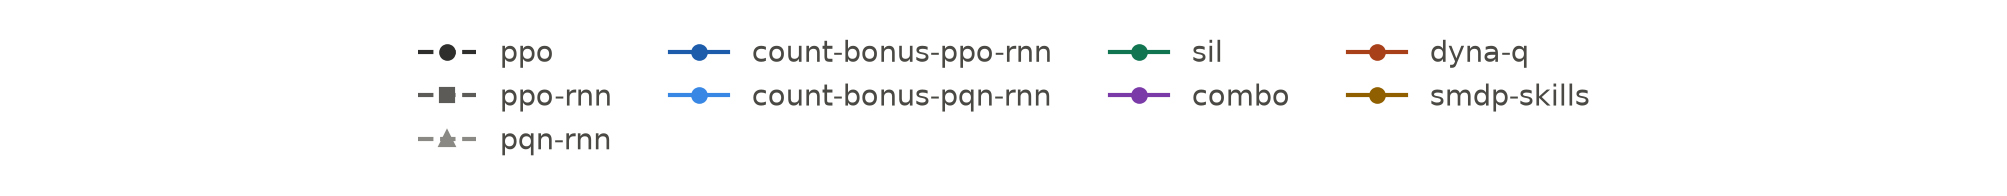
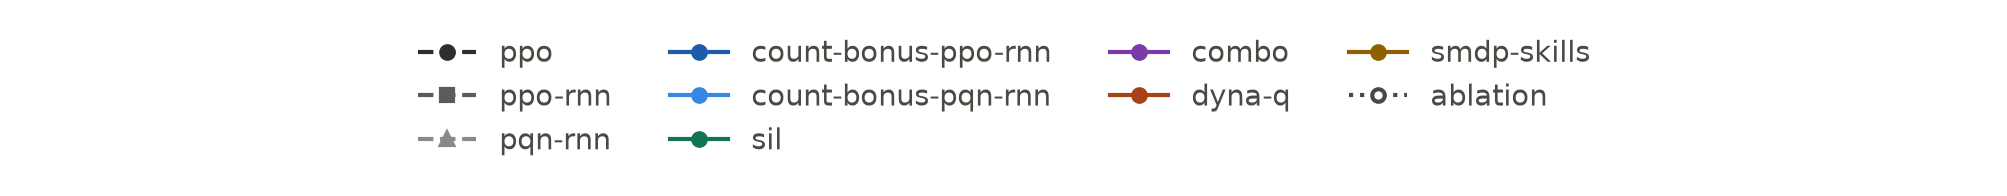
docs: rewrite the checkpoint with results, compute cost and a plan

diff --git a/report/checkpoint.tex b/report/checkpoint.tex
@@ -5,11 +5,11 @@
 \usepackage{hyperref}
 \usepackage{enumitem}
 \setlist{nosep,leftmargin=*}
-\setlist[description]{labelindent=0pt,leftmargin=1.2em,itemsep=2pt}
+\setlist[description]{labelindent=0pt,leftmargin=1.2em,itemsep=3pt}
 \input{numbers}
 
-\title{Checkpoint: reinforcement learning on Craftax}
-\author{Pawe{\l} Pozorski\\{\small\href{mailto:pawel.pozorski.stud@pw.edu.pl}{pawel.pozorski.stud@pw.edu.pl}}}
+\title{Checkpoint: can an RL agent get further in Craftax?}
+\author{Pawe{\l} Pozorski, Pawe{\l} Florek, Jan Cwalina\\{\small\texttt{\{pawel.pozorski, pawel.florek, jan.cwalina\}.stud@pw.edu.pl}}}
 \date{}
 
 \begin{document}
@@ -20,43 +20,78 @@
 \section*{1. Problem, objective and repository}
 
 \begin{description}
-\item[Problem.] Craftax is a survival game in which an agent gathers resources, crafts tools and descends through nine floors. It has 67 achievements worth at most 226 points, which makes it a hard test of exploration and long-term planning. Agents are compared at one million (1M) and one billion (1B) steps.
-\item[Objective.] Do ideas that help exploration and learning from experience also help on Craftax? We compare three standard agents (PPO, PPO with memory, PQN with memory) with four additions: a bonus for reaching new stages of the game, self-imitation, Q-learning over hand-written skills, and Dyna-Q over those skills. We also ask whether the ranking at 1M still holds at 1B.
-\item[Repository.] \url{https://github.com/Pawlo77/rl-craftmax} (public); the README explains how to install and run it.
+\item[Problem.] Craftax is a Minecraft-like survival game written in JAX, fast enough to train an agent for a billion steps. The agent sees a 9\,$\times$\,11 window of the map around it (in our setting as a vector of 8\,268 numbers), picks one of 43 actions, and has to keep its health, food, water and energy up while it collects wood and stone, crafts tools, fights monsters and enchants gear. The world has nine floors, each 48\,$\times$\,48 tiles: the overworld, a dungeon, the gnomish mines, the sewers, the vaults, the troll mines, a fire realm, an ice realm and finally a graveyard with the boss. To go down a floor the agent has to find the ladder and kill enough monsters to open it. An episode ends when the agent dies or after 100\,000 steps.
+\item[Reward.] There are 67 achievements in four tiers (25 worth 1 point, 18 worth 3, 15 worth 5, 9 worth 8), 226 points in total, each paid once per episode. Almost nobody gets far: published agents score a few percent after a million steps and about 15\,\% after a billion. In our runs none of the evaluation episodes at 1M gets below the dungeon, so the game is mostly a test of exploration.
+\item[Objective.] We wanted to see whether the usual tricks for exploration and for learning from past experience help here, or whether a plain agent with some memory is already as good as it gets. We start from three standard agents (PPO, PPO with a recurrent layer, PQN with a recurrent layer) and plan to bolt four ideas onto them: a bonus for reaching new stages of the game, self-imitation, Q-learning over hand-written skills, and Dyna-Q on top of those skills. Everything is run at one million (1M) and one billion (1B) steps, so we can also ask whether what works at 1M still works at 1B.
+\item[Repository.] \url{https://github.com/Pawlo77/rl-craftmax}, public. The README says how to install it and how to repeat a run.
 \end{description}
+
+\begin{center}
+\includegraphics[height=4.3cm]{figures/checkpoint/checkpoint_game1.png}\hspace{1.2em}\includegraphics[height=4.3cm]{figures/checkpoint/checkpoint_game2.png}\\[2pt]
+{\footnotesize Two frames of the overworld, the first floor (our own renders). Left: the start of an episode. Right: a zombie\\ next to the player; the bars under the map are health, food, water, energy and mana.}
+\end{center}
 
 \section*{2. Minimal experiment}
 
 \begin{description}
-\item[Environment and agent.] Craftax-Symbolic, which gives the agent a compact vector description of the world, and a PPO agent as the baseline.
-\item[What we ran.] PPO for one million steps on 10 seeds, with every metric logged to MLflow; one command in the README repeats it.
-\item[Performance.] The score is the mean return over the last 2\,\% of training, as a share of the 226 points. PPO reaches \scoreOneMPpo\,\% $\pm$ \scoreSeOneMPpo\ (mean $\pm$ standard error). The published value is 2.2\,\%, so the baseline is reproduced.
+\item[Setup.] We use Craftax-Symbolic, where the observation is a vector instead of pixels, and start with plain PPO because every other agent is a change to it. Ten seeds, 1M steps, every metric logged to MLflow. After \texttt{make install}, \texttt{make queue PHASE=final-1m METHOD=ppo} repeats the ten runs (\texttt{make train-ppo} gives a single quick one) and \texttt{make mlflow} opens the logged curves.
+\item[Score.] We take the mean return over the last 2\,\% of training and divide by 226, so a score is a percentage of the maximum. PPO ends at \scoreOneMPpo\,\% $\pm$ \scoreSeOneMPpo\ (mean $\pm$ standard error) and the published number is 2.2\,\%, so the baseline matches the paper and we did not have to hunt for a bug before going further.
+\item[The other two baselines.] PPO-RNN and PQN-RNN went through the same protocol, then the same agents at 1B steps. The table has all three, next to the numbers from the paper where one exists.
 \end{description}
+
+\begin{center}
+\begin{tabular}{lrrrr}
+\toprule
+ & \multicolumn{2}{c}{1M steps, 10 seeds} & \multicolumn{2}{c}{1B steps, 3 seeds} \\
+\cmidrule(lr){2-3}\cmidrule(lr){4-5}
+Score (\% of max) & ours & paper & ours & paper \\
+\midrule
+PPO     & \scoreOneMPpo\ $\pm$ \scoreSeOneMPpo       & 2.2 & \scoreOneBPpo\ $\pm$ \scoreSeOneBPpo       & 11.9 \\
+PPO-RNN & \scoreOneMPpoRnn\ $\pm$ \scoreSeOneMPpoRnn & 2.3 & \scoreOneBPpoRnn\ $\pm$ \scoreSeOneBPpoRnn & 15.3 \\
+PQN-RNN & \scoreOneMPqnRnn\ $\pm$ \scoreSeOneMPqnRnn & --  & \scoreOneBPqnRnn\ $\pm$ \scoreSeOneBPqnRnn & 16.0 \\
+\bottomrule
+\end{tabular}\\[2pt]
+{\footnotesize Mean $\pm$ standard error over seeds. The paper has no PQN-RNN number at 1M.}
+\end{center}
+
+\begin{description}
+\item[Compute.] The two budgets differ by a factor of 1\,000, and it shows. The 1M runs ran on one of our laptops, an Apple M4 Pro (rollouts on the CPU cores, network updates on its Metal GPU), and a run takes a few minutes. All 1B runs ran on the faculty's EDEN cluster, one GPU, two CPU cores and 12 to 16\,GB of RAM per run, and a run takes hours: PPO and PPO-RNN on an NVIDIA A100-SXM4-40GB (DGX nodes), PQN-RNN on an NVIDIA H100 PCIe (the hopper node). The two GPU types differ in speed, so the 1B times of different methods are not strictly comparable. The laptop speeds are measured with two runs sharing the machine, so they are on the low side. For comparison, a single 1B run of PPO-RNN on the laptop would take about four days.
+\end{description}
+
+\begin{center}
+\begin{tabular}{lrrrrrr}
+\toprule
+ & \multicolumn{2}{c}{1M, laptop (per run)} & \multicolumn{4}{c}{1B, cluster GPU (per run)} \\
+\cmidrule(lr){2-3}\cmidrule(lr){4-7}
+ & steps/s & time & steps/s & time & GPU (memory) & all 3 seeds \\
+\midrule
+PPO     & 4\,300 & 3.8 min & 75\,000 & 3.7 h & A100 (33 GB) & 11 h \\
+PPO-RNN & 3\,100 & 5.7 min & 58\,000 & 4.9 h & A100 (33 GB) & 15 h \\
+PQN-RNN & 2\,500 & 7.0 min & 80\,000 & 3.5 h & H100 (65 GB) & 10 h \\
+\bottomrule
+\end{tabular}\\[2pt]
+{\footnotesize Laptop: Apple M4 Pro; A100 = A100-SXM4-40GB, H100 = H100 PCIe, both on EDEN. Time is wall clock including compilation. The three baselines alone cost 36 GPU-hours at 1B (9 runs)\\ and under 3 hours of laptop time at 1M (30 runs).}
+\end{center}
 
 \section*{3. Initial result and its limitations}
 
 \begin{center}
-\begin{tabular}{lrrr}
-\toprule
-Score at 1M (\%, 10 seeds) & PPO & PPO-RNN & PQN-RNN \\
-\midrule
-Mean $\pm$ s.e. & \scoreOneMPpo\ $\pm$ \scoreSeOneMPpo & \scoreOneMPpoRnn\ $\pm$ \scoreSeOneMPpoRnn & \scoreOneMPqnRnn\ $\pm$ \scoreSeOneMPqnRnn \\
-\bottomrule
-\end{tabular}
+\includegraphics[width=\textwidth]{figures/checkpoint/checkpoint_curves.png}\\[-2pt]
+{\footnotesize Training score of the three baselines (mean over seeds, band = 95\,\% bootstrap interval).}
 \end{center}
 
 \begin{description}
-\item[Result.] The three baselines are reproduced at 1M, and PPO and PPO-RNN end almost level. Adding the progress bonus to PPO-RNN scores highest (\scoreOneMCountBonusPpoRnn\,\%), but not significantly higher (probability of improvement \poiOneMCountBonusPpoRnnPpoRnn, Holm $p=\pHolmOneMCountBonusPpoRnnPpoRnn$). The skill methods score lowest. First runs at 1B, with three seeds, point the same way: PQN-RNN catches up with PPO-RNN.
-\item[Limitations.] The 1B results rest on three seeds, so we report intervals and no tests. The 1B settings were not tuned separately. The two budgets ran on different hardware and software, and a check on the cluster showed no difference beyond seed noise.
+\item[Result.] All three baselines land within the margin of the published numbers, with one exception we come back to below. Two things surprised us. At 1M memory hardly matters: PPO and PPO-RNN end level, while PQN-RNN first gets worse for about 200k steps before it starts to climb, and ends last. At 1B the picture flips. PPO falls far behind at \scoreOneBPpo\,\%, and PQN-RNN catches up with PPO-RNN (\scoreOneBPqnRnn\ against \scoreOneBPpoRnn\,\%). So the ranking at 1M says little about the ranking at 1B, which is the reason we run both budgets.
+\item[Limitations.] At 1B we can only afford three seeds, so we report intervals and no tests, and the 1B numbers are indicative. Our PPO-RNN at 1B is a bit above the published 15.3, by more than the seed noise; we looked for a bug, found none, and note it as a difference. The 1B settings were not tuned, we reused the 1M ones. The two budgets also ran on different machines (our laptops, then the faculty GPU cluster); a rerun on the cluster gave scores within seed noise, but it is one more thing to keep in mind.
 \end{description}
 
 \section*{4. Plan and division of work}
 
 \begin{description}
-\item[Next experiments.] Finish the ablations at 1B (Dyna-Q without its exploration bonus and three variants of the skill method), then compare the ranking at both budgets.
-\item[Deliverables.] A 3-page report, a short and a long video, and a public release of the results and an interactive demo on Hugging Face.
-\item[Possible extensions.] Tune the methods at 1B, run more seeds, learn the progress summary instead of choosing it by hand, and add the intrinsic-reward baselines RND and E3B.
-\item[Division of work.] One author, Pawe{\l} Pozorski, covers experiments, analysis, report and videos.
+\item[Next experiments.] The four additions are what is left. Each one is added to the baselines it fits, run for 1M steps on 10 seeds (a few hours of laptop time) and then for 1B steps on 3 seeds (roughly 10 to 15 GPU-hours per method, like the baselines), and compared with its own unmodified control under the same protocol. The part we are most curious about is the skills, since the skill list is written by hand and may simply be a bad guess. If time allows we also combine the two additions that work best, and run the 1B ablations (Dyna-Q without its exploration bonus, variants of the skill list).
+\item[Deliverables.] A 3-page report, a short and a long video, and a public release of the code, results and a small demo.
+\item[Possible extensions.] Tuning at 1B, more seeds, learning the progress summary instead of choosing it by hand, and the intrinsic-reward baselines RND and E3B.
+\item[Division of work.] Pawe{\l} Pozorski built the baselines, the experiment pipeline and the analysis, and keeps running the 1B jobs on the cluster. Pawe{\l} Florek takes the progress bonus and self-imitation, Jan Cwalina the hand-written skills with Q-learning and Dyna-Q; each of us runs, tunes and describes our own methods. The report sections and the videos follow the same split, and Pawe{\l} Pozorski merges and checks the numbers.
 \end{description}
 
 \end{document}

diff --git a/report/numbers.tex b/report/numbers.tex
@@ -1261,11 +1261,16 @@
 \newcommand{\medianOneBCountBonusPpoRnn}{16.55}
 \newcommand{\medianOneBCountBonusPqnRnn}{15.99}
 \newcommand{\medianOneBDynaQ}{8.53}
+\newcommand{\medianOneBDynaQKappaZero}{7.65}
 \newcommand{\medianOneBPpo}{11.70}
 \newcommand{\medianOneBPpoRnn}{16.41}
 \newcommand{\medianOneBPqnRnn}{16.04}
 \newcommand{\medianOneBSil}{15.08}
+\newcommand{\medianOneBSilSingleBuffer}{16.30}
 \newcommand{\medianOneBSmdpSkills}{7.63}
+\newcommand{\medianOneBSmdpSkillsMonteCarlo}{10.68}
+\newcommand{\medianOneBSmdpSkillsNoFlags}{6.41}
+\newcommand{\medianOneBSmdpSkillsRandomTop}{4.75}
 \newcommand{\pHolmOneMComboPpo}{1.000}
 \newcommand{\pHolmOneMComboPpoRnn}{1.000}
 \newcommand{\pHolmOneMComboPqnRnn}{0.002}
@@ -1402,11 +1407,16 @@
 \newcommand{\scoreOneBCountBonusPpoRnn}{16.33}
 \newcommand{\scoreOneBCountBonusPqnRnn}{15.99}
 \newcommand{\scoreOneBDynaQ}{8.76}
+\newcommand{\scoreOneBDynaQKappaZero}{8.23}
 \newcommand{\scoreOneBPpo}{11.72}
 \newcommand{\scoreOneBPpoRnn}{16.22}
 \newcommand{\scoreOneBPqnRnn}{16.10}
 \newcommand{\scoreOneBSil}{15.13}
+\newcommand{\scoreOneBSilSingleBuffer}{16.24}
 \newcommand{\scoreOneBSmdpSkills}{7.98}
+\newcommand{\scoreOneBSmdpSkillsMonteCarlo}{10.45}
+\newcommand{\scoreOneBSmdpSkillsNoFlags}{6.42}
+\newcommand{\scoreOneBSmdpSkillsRandomTop}{4.47}
 \newcommand{\scoreOneMCombo}{2.13}
 \newcommand{\scoreOneMCountBonusPpoRnn}{2.27}
 \newcommand{\scoreOneMCountBonusPpoRnnSimHash}{1.78}
@@ -1426,11 +1436,16 @@
 \newcommand{\scoreSeOneBCountBonusPpoRnn}{0.35}
 \newcommand{\scoreSeOneBCountBonusPqnRnn}{0.01}
 \newcommand{\scoreSeOneBDynaQ}{0.67}
+\newcommand{\scoreSeOneBDynaQKappaZero}{0.69}
 \newcommand{\scoreSeOneBPpo}{0.05}
 \newcommand{\scoreSeOneBPpoRnn}{0.27}
 \newcommand{\scoreSeOneBPqnRnn}{0.09}
 \newcommand{\scoreSeOneBSil}{0.06}
+\newcommand{\scoreSeOneBSilSingleBuffer}{0.07}
 \newcommand{\scoreSeOneBSmdpSkills}{0.37}
+\newcommand{\scoreSeOneBSmdpSkillsMonteCarlo}{0.95}
+\newcommand{\scoreSeOneBSmdpSkillsNoFlags}{0.24}
+\newcommand{\scoreSeOneBSmdpSkillsRandomTop}{0.42}
 \newcommand{\scoreSeOneMCombo}{0.03}
 \newcommand{\scoreSeOneMCountBonusPpoRnn}{0.04}
 \newcommand{\scoreSeOneMCountBonusPpoRnnSimHash}{0.04}

diff --git a/src/wut_murl_craftax/analysis/results.py b/src/wut_murl_craftax/analysis/results.py
@@ -176,13 +176,16 @@ TABLE_CAPTIONS: dict[str, TableCaption] = {
         "Hardware",
         "Run medians per hardware profile (steps per second, wall-clock, compile time, "
         "memory, utilisation); profiles are never compared, laptop timings are context "
-        "only.",
+        "only. Devices: laptop = Apple M4 Pro (CPU actors, Metal GPU); cuda = one "
+        "NVIDIA A100-SXM4-40GB (DGX nodes) or H100 PCIe (hopper node) of the EDEN "
+        "cluster per run, read from each run's `sys.gpu` tag.",
     ),
     "stability_hardware": TableCaption(
         "T5",
         "Stability and hardware",
         "Seed sd, drawdown, drops and collapses beside steady steps per second, "
-        "wall-clock and memory, per profile and block (LaTeX table).",
+        "wall-clock and memory, per profile and block (LaTeX table); devices as in "
+        "the hardware table.",
     ),
     "game_summary": TableCaption(
         "T6",

diff --git a/src/wut_murl_craftax/analysis/load.py b/src/wut_murl_craftax/analysis/load.py
@@ -27,7 +27,7 @@ Frames = dict[str, pd.DataFrame]
 METRICS_ROOT = Path("outputs/metrics")
 """Where the exporter writes ``<phase>/<table>.parquet``."""
 TABLES = ("runs", "curves", "eval_episodes")
-FINAL_PHASES = ("final-1m", "final-1b", "combo-1m", "combo-1b")
+FINAL_PHASES = ("final-1m", "final-1b", "combo-1m", "combo-1b", "ablate-1b")
 """The phases of the final analysis; the 1B ones do not exist before the 1B runs."""
 UNIT_COLUMNS = ("method", "config_ref")
 """The statistics unit: never pool two `config_ref` values of one method."""
